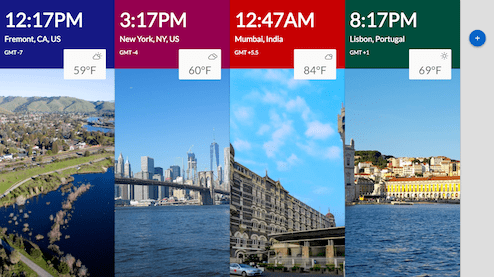
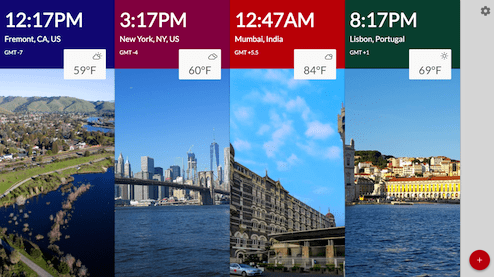
serious css cleanup

Changed region(s): [[0.9413, 0.8953, 1.0, 0.9819], [0.9413, 0.0866, 1.0, 0.1733], [0.9717, 0.0289, 1.0, 0.0578]]

diff --git a/src/NewTimezone.js b/src/NewTimezone.js
@@ -1,15 +1,14 @@
 import React, {Component} from 'react';
 import FloatingActionButton from 'material-ui/FloatingActionButton';
 import ContentAdd from 'material-ui/svg-icons/content/add';
-import ExpandLess from 'material-ui/svg-icons/navigation/expand-less';
-import {GridTile} from 'material-ui/GridList';
 import NewTimezoneDialog from './NewTimezoneDialog';
 import './NewTimezone.css';
 
 export default class NewTimezone extends Component {
   constructor(props) {
     super(props);
-    this.state = {education: props.education};
+    this.state = {education: props.education, hover: false, educationTimeout: false};
+
     this.handleTap = this.handleTap.bind(this);
     this.onSelect = this.onSelect.bind(this);
   }
@@ -23,32 +22,36 @@ export default class NewTimezone extends Component {
     this.setState({education: false});
   }
 
+  handleHover(mouseEntering) {
+    this.setState({hover: mouseEntering});
+  }
+
+  componentDidMount() {
+    setTimeout(() => this.setState({educationTimeout: true}), 3000);
+  }
+
   displayStyle(isVisible) {
     return {display: isVisible ? 'block' : 'none'}
   }
 
   render() {
-    let content = (<div>
-        <div className='fabWrapper'>
-        <NewTimezoneDialog 
-            ref='newTimezoneDialog'
-            title='Add new timezone'
-            onSelect={this.onSelect} />
+    const showText = (this.state.education && !this.state.educationTimeout) || this.state.hover;
+    return (<div className='fabWrapper'>
+      <NewTimezoneDialog 
+          ref='newTimezoneDialog'
+          title='Add new timezone'
+          onSelect={this.onSelect} />
+        <div className={'instructions' + (this.state.education ? ' education' : '')}>
+          <b className={'buttonText' + (showText ? ' show' : '')}>Add timezone</b>
           <FloatingActionButton 
-              className={'add' + (this.state.education ? ' education' : '')}
+              className={'add'}
               onTouchTap={this.handleTap}
-              backgroundColor='#1565c0'>
+              onMouseEnter={() => this.handleHover(true)}
+              onMouseLeave={() => this.handleHover(false)}
+              backgroundColor='#b71c1c'>
             <ContentAdd />
           </FloatingActionButton>
-          <p className='instructions' style={this.displayStyle(!this.state.education)}><b>ADD LOCATION</b></p>
-          <div className='instructions' style={this.displayStyle(this.state.education)}>
-            <ExpandLess className='arrow'/>
-            <br/>Add a new city to your world clock
-          </div>
         </div>
       </div>);
-    return (
-      <GridTile key='new'>{content}</GridTile>
-    );
   }
 }

diff --git a/src/NewTimezone.css b/src/NewTimezone.css
@@ -1,30 +1,16 @@
 .fabWrapper {
-  width: 200px;
-  left: 0px;
-  text-align: left;
-  top: 50%;
-}
-.fabWrapper>.add.education {
-  animation: 0.5s ease-in-out 0s 1 pulse;
-}
-.fabWrapper, .inputWrapper {
-  position: relative;
-  top: 100px;
-}
-.inputWrapper {
-  padding: 20px;
-  min-width: 300px;
-}
-.fabWrapper>p {
-  visibility: hidden;
-  opacity: 0;
-  transition: visibility 0.2s, opacity 0.3s linear;
-}
-.inputWrapper>div>div {
-  display: block !important;
+  position: absolute;
+  bottom: 24px;
+  right: 18px;
+  text-align: right;
 }
 .add {
-  margin-left: 30px !important;
+  margin-left: 12px !important;
+}
+.add>button {
+  width: 64 !important;
+  height: 64 !important;
+  box-shadow: 0 14px 28px rgba(0,0,0,0.25), 0 10px 10px rgba(0,0,0,0.22);
 }
 .add>button>div>div {
   transition: transform 0.5s ease-in-out;
@@ -32,29 +18,32 @@
 .add>button>div>div:hover>svg {
   transform: rotate(180deg);
 }
-.add:hover~p {
-  visibility: visible;
-  opacity: 0.6;
-}
 div.autocomplete {
   font-size: 36px !important;
 }
-.gridList>div:last-child {
-  width: 100px !important;
-}
 .instructions {
-  text-align: left;
+  text-align: right;
   font-size: 24px;
-  margin-left: 15px;
-  width: 100%;
+  display: table;
 }
-.arrow {
-  opacity: 0.7;
-  margin-left: 24px;
+.instructions.education>.add {
+  animation: 0.5s ease-in-out 0s 3 pulse;
+}
+.buttonText {
+  display: table-cell;
+  vertical-align: middle;
+  opacity: 0;
+  transition: opacity 0.3s ease;
+  color: #FAFAFA;
+  background-color: #333;
   margin-top: 5px;
-  width: 32px !important;
-  height: 40px !important;
-  animation: 0.5s ease-in-out 0s 2 bounce;
+  margin-bottom: 5px;
+  padding: 0px 15px 0px 15px;
+  border-radius: 10px;
+  font-size: 16px;
+}
+.buttonText.show {
+  opacity: 0.9;
 }
 
 @keyframes pulse {

diff --git a/src/App.js b/src/App.js
@@ -264,7 +264,7 @@ class App extends Component {
       />);
 
     const rootStyle = {display: 'flex', flexWrap: 'wrap'}
-    const gridListStyle = {display: 'flex', flexWrap: 'nowrap', overflowX: 'auto'}
+    const gridListStyle = {display: 'flex', flexWrap: 'nowrap', overflowX: 'auto', marginRight: 100}
 
     return (
       <div style={rootStyle}>
@@ -282,18 +282,20 @@ class App extends Component {
             onSelect={(city) => this.handleHomeCity(city.text)} />
         </MuiThemeProvider>
         <MuiThemeProvider>
-          <GridList cellHeight={this.state.height} cols={2.2} padding={0}
+          <GridList cellHeight={this.state.height} cols={2.8} padding={0}
               style={gridListStyle}
               id='gridList'
               className='condensed'
               onMouseUp={this.endDrag}
               onMouseMove={this.handleMouseMove}>
             {timeZones}
-            <NewTimezone
-              ref='newTz'
-              education={(this.state.timeZones.length < 2) && this.state.welcomeDismissed}
-              onAddCity={this.handleNewCity}/>
           </GridList>
+        </MuiThemeProvider>
+        <MuiThemeProvider>
+          <NewTimezone
+            ref='newTz'
+            education={(this.state.timeZones.length < 2)}
+            onAddCity={this.handleNewCity}/>
         </MuiThemeProvider>
         <MuiThemeProvider>
           <SettingsDialog

diff --git a/src/App.css b/src/App.css
@@ -38,7 +38,7 @@
   color: #FFF !important;
 }
 .tz:hover .tzbtn {
-  opacity: 0.5;
+  opacity: 0.7;
 }
 .tzbtn:hover {
   opacity: 1 !important;
@@ -91,19 +91,13 @@
 .offset {
   font-size: 18px;
 }
-#root>div>div {
-	width: 100%;
-}
 .col0 {background-color: #1a237e !important}
 .col1 {background-color: #880e4f !important}
 .col2 {background-color: #b71c1c !important}
 .col3 {background-color: #004d40 !important}
 
-@media(max-width: 600px) {
+/*@media(max-width: 600px) {*/
   #gridList>div {
-    min-width: 300px;
+    min-width: 320px;
   }
-}
-#gridList>div:nth-child(4) {
-  width: 200px !important;
-}
+/*}*/

diff --git a/src/SettingsDialog.js b/src/SettingsDialog.js
@@ -5,7 +5,7 @@ import Settings from 'material-ui/svg-icons/action/settings';
 import './SettingsDialog.css';
 
 const styles = {
-  settingsStyle: {position: 'absolute', right: 20, bottom: 20,
+  settingsStyle: {position: 'absolute', right: 29, top: 40,
     cursor: 'pointer', opacity: 0.5, width: 32, height: 32,
     transition: 'all ease 0.3s'},
   titleStyle: {fontFamily: 'Lato, sans-serif', fontSize: 24, paddingBottom: 24}

diff --git a/src/Weather.js b/src/Weather.js
@@ -10,7 +10,8 @@ export default class Weather extends Component {
   }
 
   componentWillReceiveProps(nextProps) {
-    if (this.props.units !== nextProps.units) {
+    if ((this.props.units !== nextProps.units) 
+        || (this.props.location !== nextProps.location)) {
       this.updateWeather(nextProps);
     }
   }
